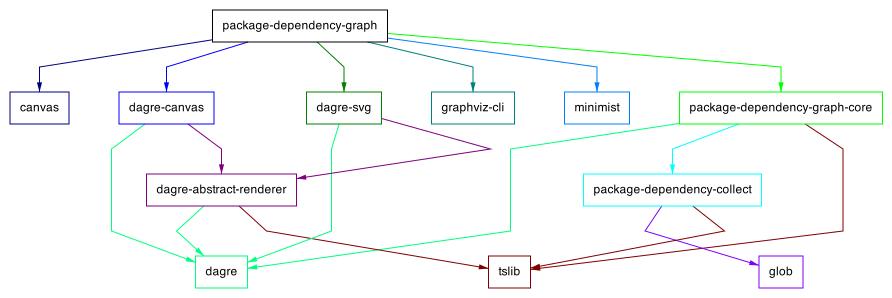
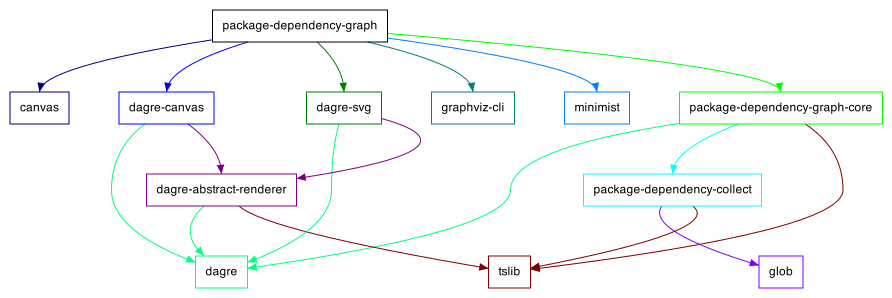
feat: improve dagre graph

diff --git a/packages/dagre-abstract-renderer/src/renderer.ts b/packages/dagre-abstract-renderer/src/renderer.ts
@@ -19,12 +19,32 @@ export function renderDagre<T>(graph: dagre.graphlib.Graph, target: RenderTarget
   const children: T[] = []
   for (const edge of graph.edges()) {
     const edgeValue: GraphEdgeValue = graph.edge(edge)
-    children.push(target.polyline(edgeValue.points.map((p) => ({ x: p.x + margin, y: p.y + margin })), edgeValue.color!))
-    const point1 = edgeValue.points[edgeValue.points.length - 2]
+    const edgeColor = edgeValue.color!
+    const points = edgeValue.points.map((p) => ({ x: p.x + margin, y: p.y + margin }))
+    if (points.length === 3) {
+      children.push(target.quadraticCurveTo(points[0], points[1], points[2], edgeColor))
+    } else if (points.length === 4) {
+      children.push(target.bezierCurveTo(points[0], points[1], points[2], points[3], edgeColor))
+    } else if (points.length === 5) {
+      children.push(target.quadraticCurveTo(points[0], points[1], points[2], edgeColor))
+      children.push(target.quadraticCurveTo(points[2], points[3], points[4], edgeColor))
+    } else {
+      children.push(target.polyline(points, edgeColor))
+    }
+    let point1 = edgeValue.points[edgeValue.points.length - 2]
     const point2 = edgeValue.points[edgeValue.points.length - 1]
-    const alpha = Math.atan((point2.x - point1.x) / (point1.y - point2.y))
-    const deltaAlpha = Math.PI / 12
     const arrowSize = 10
+    const deltaAlpha = Math.PI / 8
+    if (edgeValue.points.length >= 3) {
+      const point0 = edgeValue.points[edgeValue.points.length - 3]
+      const rate = arrowSize / Math.sqrt(Math.pow(point0.x - point2.x, 2) + Math.pow(point0.y - point2.y, 2))
+      const remainRate = 1 - rate
+      point1 = {
+        x: Math.pow(remainRate, 2) * point2.x + 2 * rate * remainRate * point1.x + Math.pow(rate, 2) * point0.x,
+        y: Math.pow(remainRate, 2) * point2.y + 2 * rate * remainRate * point1.y + Math.pow(rate, 2) * point0.y,
+      }
+    }
+    const alpha = Math.atan((point2.x - point1.x) / (point1.y - point2.y))
     const alpha1 = alpha - deltaAlpha
     const alpha2 = alpha + deltaAlpha
     children.push(target.polygon([
@@ -40,7 +60,7 @@ export function renderDagre<T>(graph: dagre.graphlib.Graph, target: RenderTarget
         x: point2.x + arrowSize * Math.sin(alpha2) + margin,
         y: point2.y - arrowSize * Math.cos(alpha2) + margin
       }
-    ], edgeValue.color!))
+    ], edgeColor))
   }
   for (const node of graph.nodes()) {
     const nodeValue: NodeValue = graph.node(node)

diff --git a/packages/dagre-canvas/src/canvas.ts b/packages/dagre-canvas/src/canvas.ts
@@ -1,5 +1,5 @@
 import * as dagre from 'dagre'
-import { RenderTarget, renderDagre } from 'dagre-abstract-renderer'
+import { RenderTarget, renderDagre, Point } from 'dagre-abstract-renderer'
 
 /**
  * @public
@@ -50,7 +50,7 @@ export class CanvasTarget implements RenderTarget<void> {
     const textMetrics = this.ctx.measureText(text)
     this.ctx.fillText(text, x - textMetrics.width / 2, y)
   }
-  polyline(points: { x: number; y: number; }[], color: string) {
+  polyline(points: Point[], color: string) {
     this.ctx.strokeStyle = color
     this.ctx.beginPath()
     for (let i = 0; i < points.length; i++) {
@@ -63,7 +63,7 @@ export class CanvasTarget implements RenderTarget<void> {
     }
     this.ctx.stroke()
   }
-  polygon(points: { x: number; y: number; }[], color: string) {
+  polygon(points: Point[], color: string) {
     this.ctx.fillStyle = color
     this.ctx.beginPath()
     for (let i = 0; i < points.length; i++) {
@@ -75,5 +75,19 @@ export class CanvasTarget implements RenderTarget<void> {
       }
     }
     this.ctx.fill()
+  }
+  quadraticCurveTo(p0: Point, p1: Point, p2: Point, color: string) {
+    this.ctx.strokeStyle = color
+    this.ctx.beginPath()
+    this.ctx.moveTo(p0.x, p0.y)
+    this.ctx.quadraticCurveTo(p1.x, p1.y, p2.x, p2.y)
+    this.ctx.stroke()
+  }
+  bezierCurveTo(p0: Point, p1: Point, p2: Point, p3: Point, color: string) {
+    this.ctx.strokeStyle = color
+    this.ctx.beginPath()
+    this.ctx.moveTo(p0.x, p0.y)
+    this.ctx.bezierCurveTo(p1.x, p1.y, p2.x, p2.y, p3.x, p3.y)
+    this.ctx.stroke()
   }
 }

diff --git a/packages/dagre-svg/src/svg.ts b/packages/dagre-svg/src/svg.ts
@@ -1,5 +1,5 @@
 import * as dagre from 'dagre'
-import { RenderTarget, renderDagre } from 'dagre-abstract-renderer'
+import { RenderTarget, renderDagre, Point } from 'dagre-abstract-renderer'
 
 /**
  * @public
@@ -59,7 +59,7 @@ ${children.join('')}
   >${text}
   </text>`
   }
-  polyline(points: { x: number; y: number; }[], color: string) {
+  polyline(points: Point[], color: string) {
     const pointsText = points.map((p) => `${p.x},${p.y}`).join(' ')
     return `<polyline
     points="${pointsText}"
@@ -67,12 +67,26 @@ ${children.join('')}
     fill="none"
   />`
   }
-  polygon(points: { x: number; y: number; }[], color: string) {
+  polygon(points: Point[], color: string) {
     const pointsText = points.map((p) => `${p.x},${p.y}`).join(' ')
     return `<polygon
     points="${pointsText}"
     stroke="none"
     fill="${color}"
+  />`
+  }
+  quadraticCurveTo(p0: Point, p1: Point, p2: Point, color: string) {
+    return `<path
+    d="M ${p0.x} ${p0.y} Q ${p1.x} ${p1.y} ${p2.x} ${p2.y}"
+    stroke="${color}"
+    fill="none"
+  />`
+  }
+  bezierCurveTo(p0: Point, p1: Point, p2: Point, p3: Point, color: string) {
+    return `<path
+    d="M ${p0.x} ${p0.y} C ${p1.x} ${p1.y} ${p2.x} ${p2.y} ${p3.x} ${p3.y}"
+    stroke="${color}"
+    fill="none"
   />`
   }
 }

diff --git a/packages/dagre-abstract-renderer/src/render-target.ts b/packages/dagre-abstract-renderer/src/render-target.ts
@@ -8,6 +8,16 @@ export interface RenderTarget<T> {
   createNode(attributesAction: () => T[], childrenAction: () => T[], nodeName?: string): T
   strokeRect(x: number, y: number, width: number, height: number, color: string): T
   fillText(text: string, x: number, y: number, color: string, fontSize: number, fontFamily: string): T
-  polyline(points: { x: number; y: number; }[], color: string): T
-  polygon(points: { x: number; y: number; }[], color: string): T
+  polyline(points: Point[], color: string): T
+  polygon(points: Point[], color: string): T
+  quadraticCurveTo(p0: Point, p1: Point, p2: Point, color: string): T
+  bezierCurveTo(p0: Point, p1: Point, p2: Point, p3: Point, color: string): T
+}
+
+/**
+ * @public
+ */
+export interface Point {
+  x: number
+  y: number
 }
